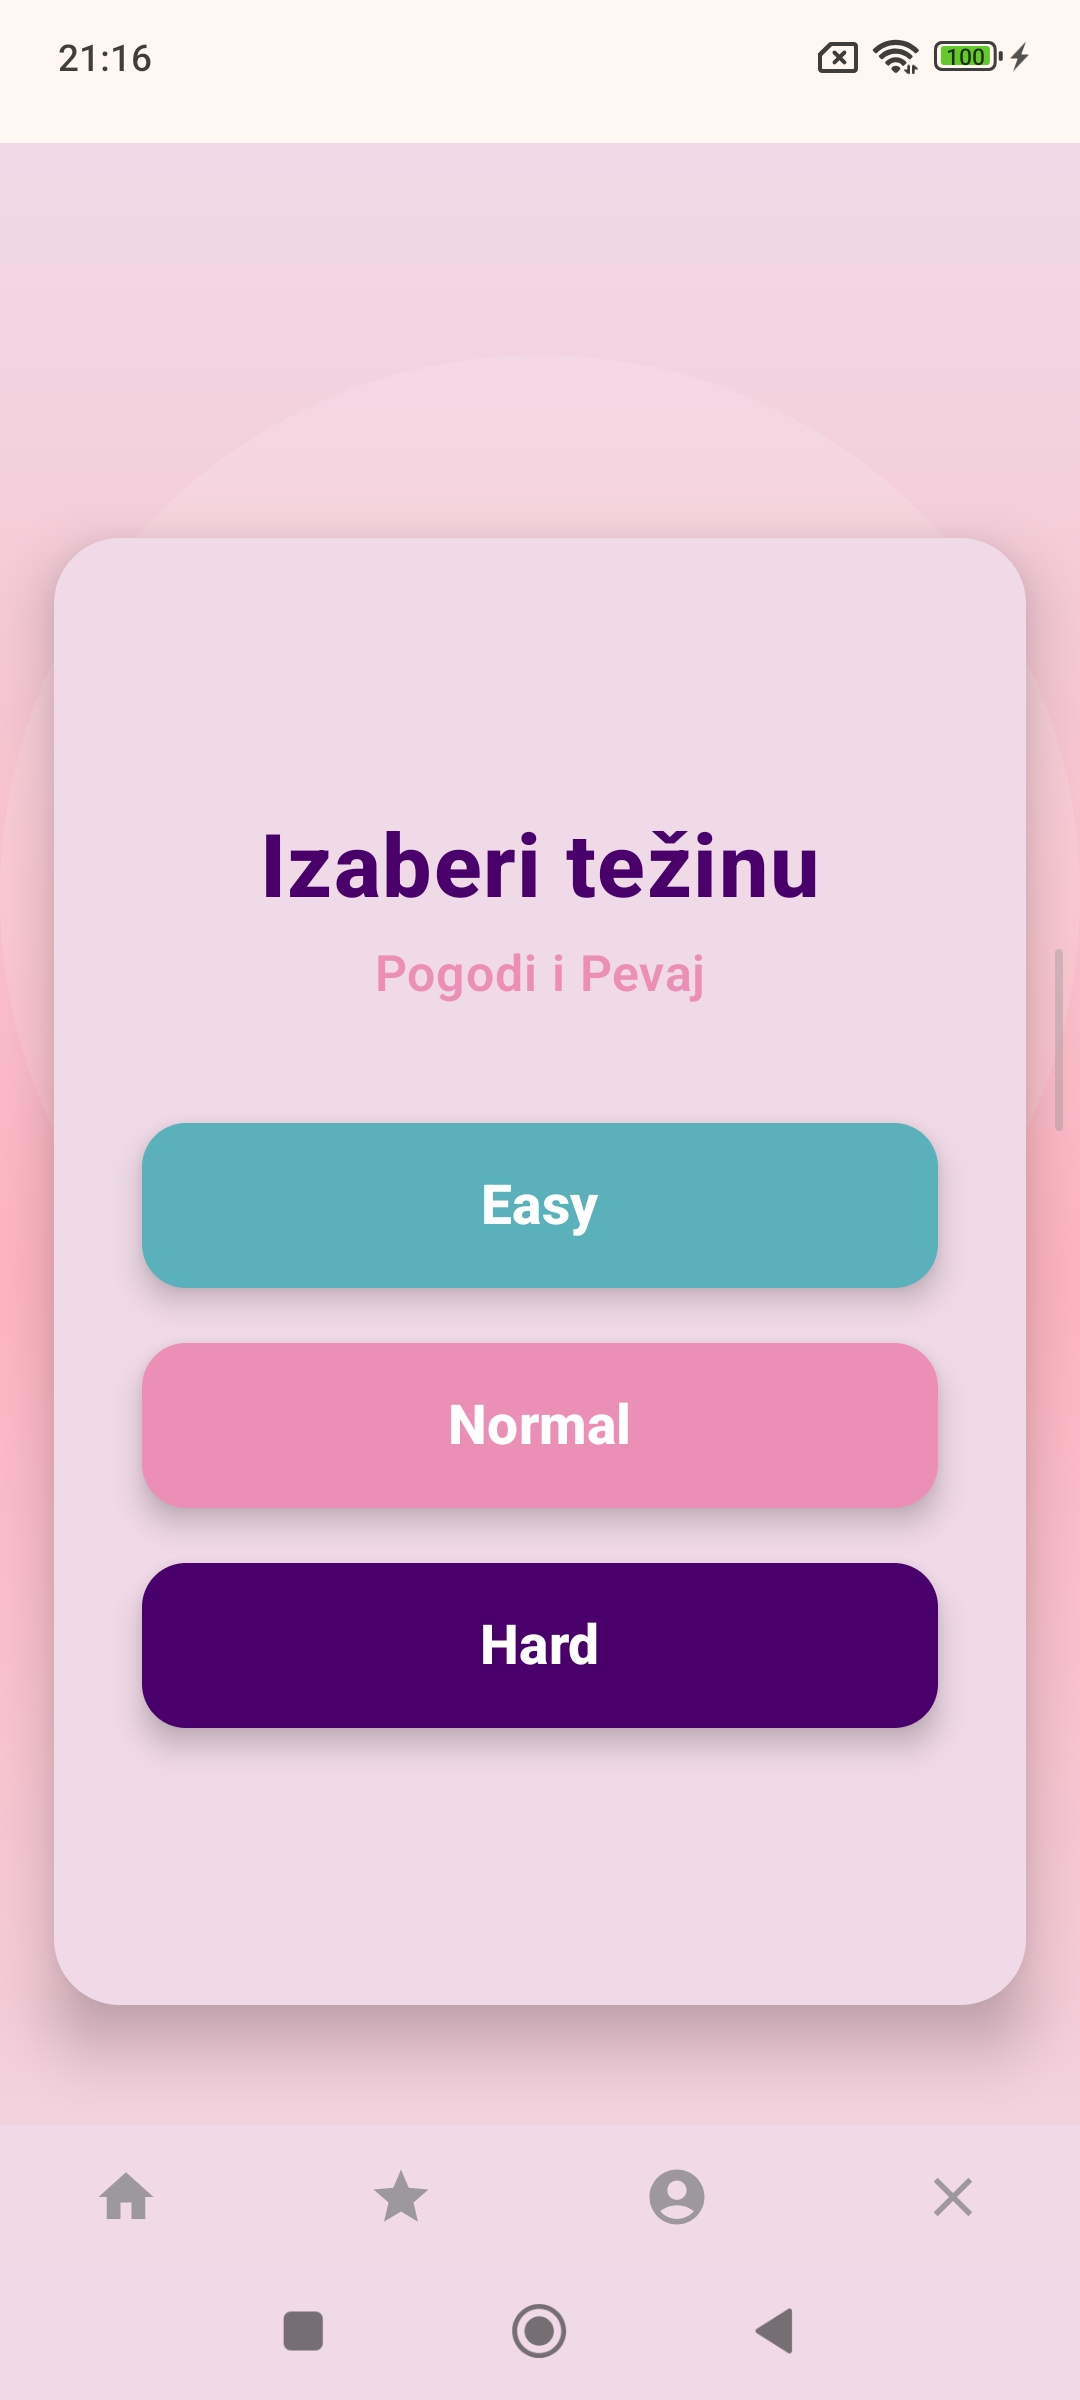
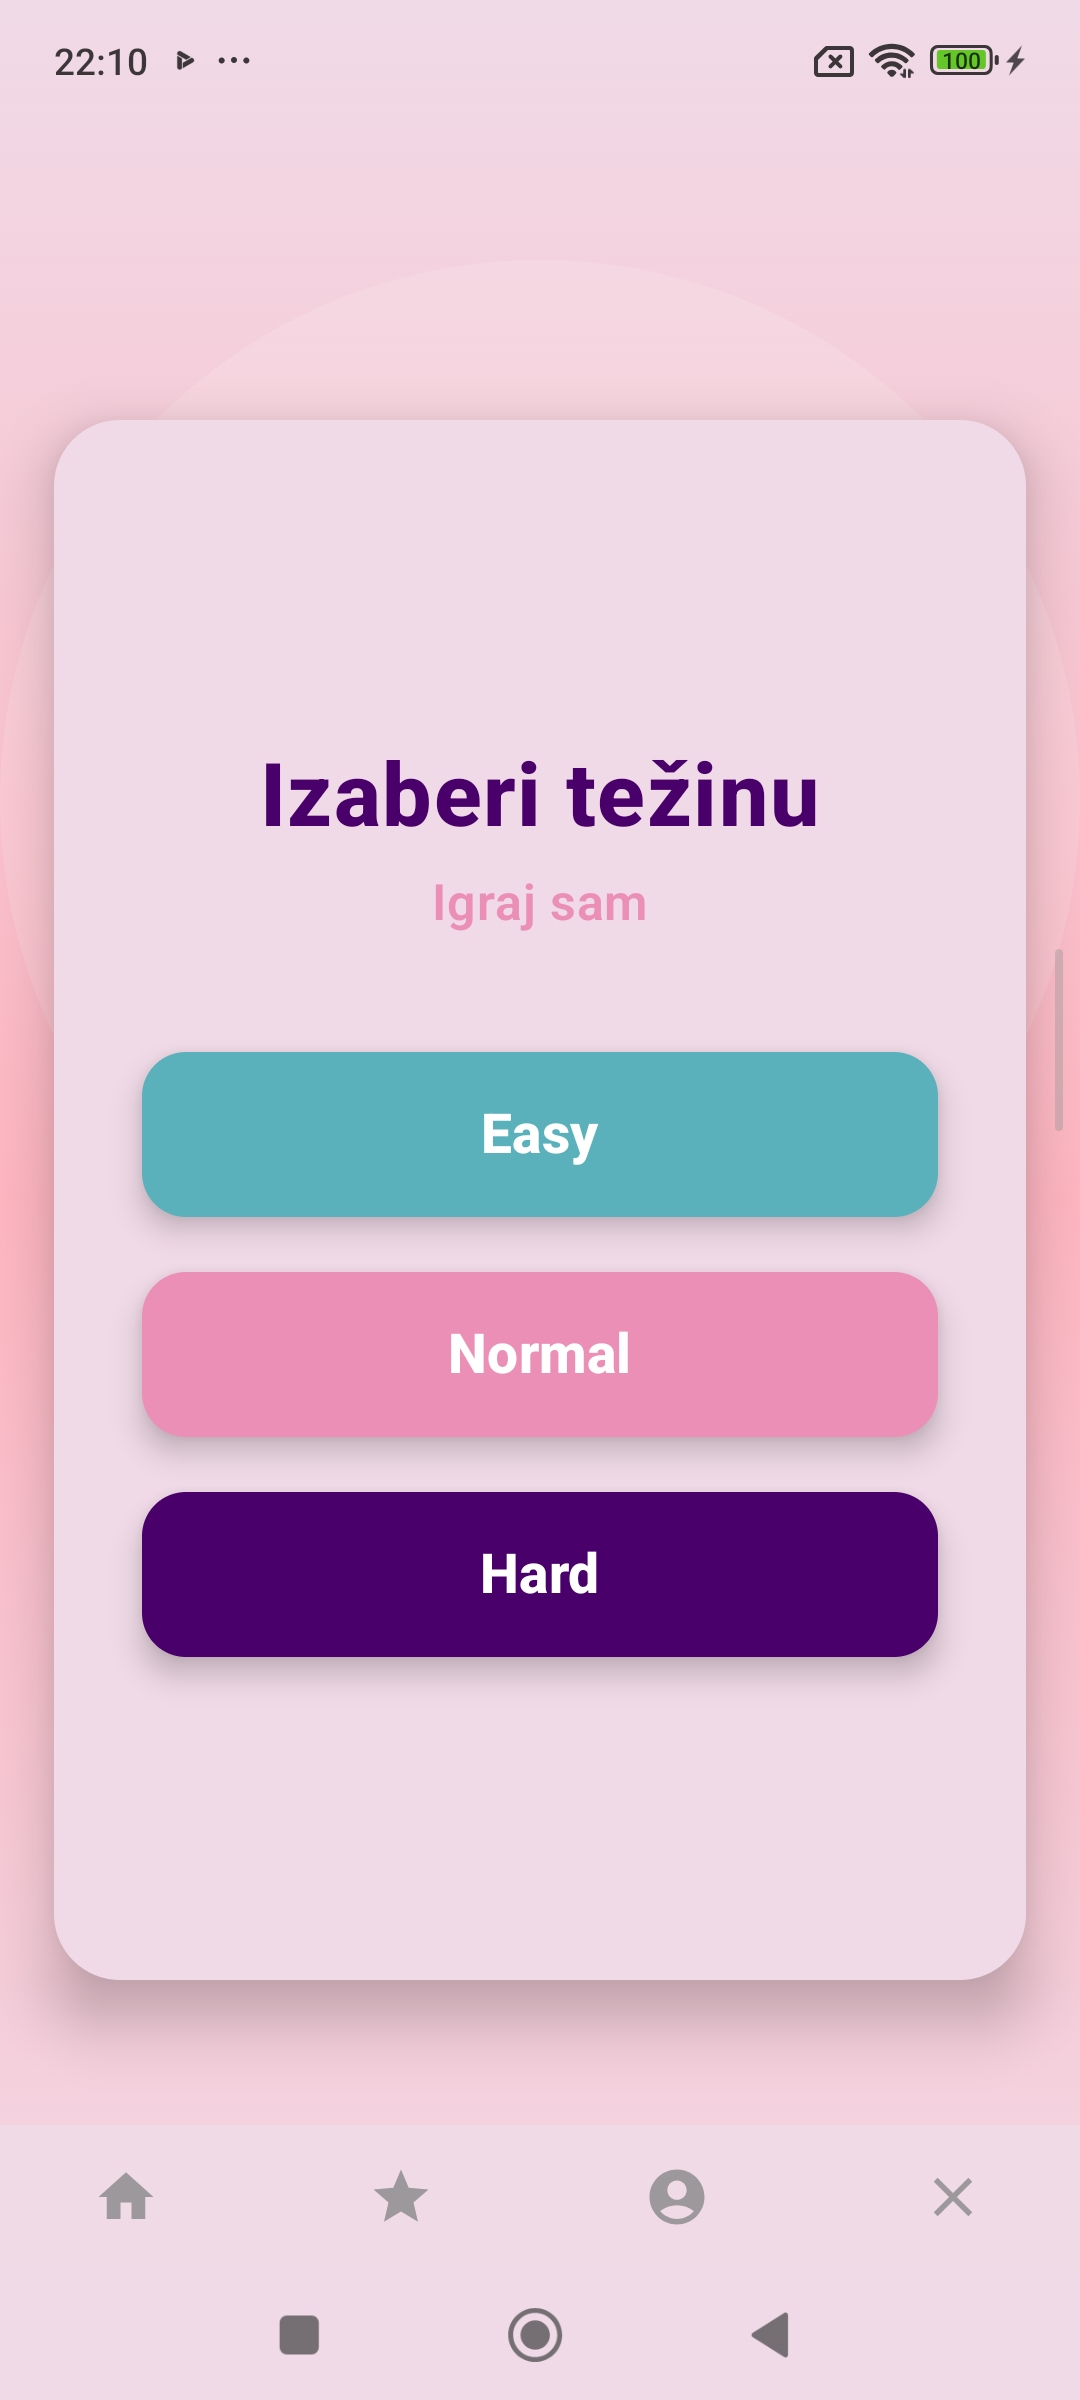
Merge Challenge, Solo, and Guess&Sing level screens into a single reusable component.

diff --git a/BlankSpace/app/src/main/java/com/example/blankspace/screens/igra_sam/Nivo_igra_sam.kt b/BlankSpace/app/src/main/java/com/example/blankspace/screens/igra_sam/Nivo_igra_sam.kt
@@ -1,21 +1,13 @@
 package com.example.blankspace.screens.igra_sam
 
-import androidx.compose.foundation.layout.Arrangement
 import androidx.compose.foundation.layout.Box
-import androidx.compose.foundation.layout.Column
 import androidx.compose.foundation.layout.PaddingValues
-import androidx.compose.foundation.layout.Spacer
-import androidx.compose.foundation.layout.fillMaxHeight
 import androidx.compose.foundation.layout.fillMaxSize
 import androidx.compose.foundation.layout.fillMaxWidth
 import androidx.compose.foundation.layout.height
-import androidx.compose.foundation.layout.padding
 import androidx.compose.foundation.shape.RoundedCornerShape
-import androidx.compose.foundation.shape.ZeroCornerSize
 import androidx.compose.material3.Button
 import androidx.compose.material3.ButtonDefaults
-import androidx.compose.material3.MaterialTheme
-import androidx.compose.material3.Surface
 import androidx.compose.material3.Text
 import androidx.compose.runtime.Composable
 import androidx.compose.runtime.LaunchedEffect
@@ -27,70 +19,22 @@ import androidx.compose.ui.Alignment
 import androidx.compose.ui.Modifier
 import androidx.compose.ui.draw.shadow
 import androidx.compose.ui.graphics.Color
-import androidx.compose.ui.graphics.graphicsLayer
 import androidx.compose.ui.text.font.FontWeight
 import androidx.compose.ui.unit.dp
 import androidx.compose.ui.unit.sp
-import androidx.navigation.NavController
+import com.example.blankspace.screens.igra_pogodi_i_pevaj.Nivo_mainCardStyled
 import com.example.blankspace.screens.pocetne.cards.BgCard2
-import com.example.blankspace.screens.Destinacije
 import kotlinx.coroutines.delay
 
-private val PrimaryDark = Color(0xFF49006B)
-private val CardContainerColor = Color(0xFFF0DAE7)
-private val AccentPink = Color(0xFFEC8FB7)
-
 @Composable
-fun Nivo_igra_sam(navController: NavController) {
-    Box(
-        modifier = Modifier
-            .fillMaxSize()
-            .padding(top = 30.dp)
-    ) {
+fun Nivo_igra_sam(onNavigateToGenre: (String) -> Unit) {
+    Box(modifier = Modifier.fillMaxSize()) {
         BgCard2()
-
-        Surface(
-            color = CardContainerColor,
-            modifier = Modifier
-                .align(Alignment.Center)
-                .fillMaxWidth()
-                .padding(horizontal = 20.dp)
-                .fillMaxHeight(0.55f)
-                .shadow(16.dp, RoundedCornerShape(28.dp)),
-            shape = RoundedCornerShape(28.dp)
-        ) {
-            Column(
-                modifier = Modifier
-                    .fillMaxSize()
-                    .padding(28.dp),
-                horizontalAlignment = Alignment.CenterHorizontally,
-                verticalArrangement = Arrangement.SpaceAround
-            ) {
-                Text(
-                    text = "Izaberite težinu",
-                    color = PrimaryDark,
-                    fontSize = 26.sp,
-                    fontWeight = FontWeight.ExtraBold,
-                    modifier = Modifier.padding(top = 8.dp)
-                )
-
-                Column(
-                    verticalArrangement = Arrangement.spacedBy(18.dp),
-                    horizontalAlignment = Alignment.CenterHorizontally,
-                    modifier = Modifier.fillMaxWidth()
-                ) {
-                    LevelButton(text = "Easy", color = Color(0xFF5AB1BB)) {
-                        navController.navigate(Destinacije.Zanr_igra_sam.ruta + "/easy")
-                    }
-                    LevelButton(text = "Normal", color = AccentPink) {
-                        navController.navigate(Destinacije.Zanr_igra_sam.ruta + "/normal")
-                    }
-                    LevelButton(text = "Hard", color = PrimaryDark) {
-                        navController.navigate(Destinacije.Zanr_igra_sam.ruta + "/hard")
-                    }
-                }
-            }
-        }
+        Nivo_mainCardStyled(
+            onDifficultySelected = onNavigateToGenre,
+            modifier = Modifier.align(Alignment.Center),
+            text="Igraj sam"
+        )
     }
 }
 
@@ -110,9 +54,7 @@ fun LevelButton(text: String, color: Color, onClick: () -> Unit) {
         ),
         shape = RoundedCornerShape(16.dp),
         contentPadding = PaddingValues(horizontal = 20.dp, vertical = 8.dp),
-        modifier = Modifier
-            .fillMaxWidth()
-            .height(60.dp)
+        modifier = Modifier.fillMaxWidth().height(60.dp)
             .shadow(elevation, RoundedCornerShape(16.dp))
     ) {
         Text(

diff --git a/BlankSpace/app/src/main/java/com/example/blankspace/screens/igra_challenge/Nivo_challenge.kt b/BlankSpace/app/src/main/java/com/example/blankspace/screens/igra_challenge/Nivo_challenge.kt
@@ -1,96 +1,21 @@
 package com.example.blankspace.screens.igra_challenge
 
-import androidx.compose.foundation.layout.Arrangement
 import androidx.compose.foundation.layout.Box
-import androidx.compose.foundation.layout.Column
-import androidx.compose.foundation.layout.Spacer
-import androidx.compose.foundation.layout.fillMaxHeight
 import androidx.compose.foundation.layout.fillMaxSize
-import androidx.compose.foundation.layout.fillMaxWidth
-import androidx.compose.foundation.layout.height
-import androidx.compose.foundation.layout.padding
-import androidx.compose.foundation.shape.RoundedCornerShape
-import androidx.compose.material3.Surface
-import androidx.compose.material3.Text
 import androidx.compose.runtime.Composable
 import androidx.compose.ui.Alignment
 import androidx.compose.ui.Modifier
-import androidx.compose.ui.draw.shadow
-import androidx.compose.ui.graphics.Color
-import androidx.compose.ui.text.font.FontWeight
-import androidx.compose.ui.unit.dp
-import androidx.compose.ui.unit.sp
-import androidx.navigation.NavController
 import com.example.blankspace.screens.pocetne.cards.BgCard2
-import com.example.blankspace.screens.Destinacije
-import com.example.blankspace.screens.igra_sam.LevelButton
-
-private val CardContainerColor = Color(0xFFF0DAE7)
-private val PrimaryDark = Color(0xFF49006B)
-private val AccentPink = Color(0xFFEC8FB7)
+import com.example.blankspace.screens.igra_pogodi_i_pevaj.Nivo_mainCardStyled
 
 @Composable
-fun Nivo_challenge(navController: NavController){
-    Box(modifier = Modifier.fillMaxSize().padding(top=52.dp)) {
+fun Nivo_challenge(onNavigateToGenre: (String) -> Unit){
+    Box(modifier = Modifier.fillMaxSize()) {
         BgCard2()
-        Nivo_challenge_mainCard(navController, modifier = Modifier.align(Alignment.Center))
-    }
-}
-
-@Composable
-fun Nivo_challenge_mainCard(navController: NavController, modifier: Modifier = Modifier) {
-    Surface(
-        color = CardContainerColor,
-        modifier = modifier
-            .fillMaxWidth(0.9f)
-            .fillMaxHeight(0.65f)
-            .shadow(16.dp, RoundedCornerShape(24.dp)),
-        shape = RoundedCornerShape(24.dp)
-    ) {
-        Column(
-            modifier = Modifier
-                .fillMaxSize()
-                .padding(32.dp),
-            horizontalAlignment = Alignment.CenterHorizontally,
-            verticalArrangement = Arrangement.Center
-        ) {
-            NivoIgreHeaderStyled()
-            Spacer(modifier = Modifier.height(42.dp))
-            NivoChallengeButtonsStyled(navController)
-        }
-    }
-}
-
-@Composable
-fun NivoIgreHeaderStyled() {
-    Column(horizontalAlignment = Alignment.CenterHorizontally) {
-        Text(
-            text = "Izaberite težinu",
-            fontSize = 32.sp,
-            fontWeight = FontWeight.ExtraBold,
-            color = PrimaryDark
+        Nivo_mainCardStyled(
+            onDifficultySelected = onNavigateToGenre,
+            modifier = Modifier.align(Alignment.Center),
+            text="Challenge mode"
         )
-        Spacer(modifier = Modifier.height(8.dp))
-        Text(
-            text = "Challenge mode",
-            fontSize = 18.sp,
-            fontWeight = FontWeight.SemiBold,
-            color = AccentPink
-        )
-    }
-}
-
-@Composable
-fun NivoChallengeButtonsStyled(navController: NavController) {
-    LevelButton(text = "Easy", color = Color(0xFF5AB1BB)) {
-        navController.navigate(Destinacije.Zanr_challenge.ruta + "/easy")
-    }
-    Spacer(modifier = Modifier.height(20.dp))
-    LevelButton(text = "Normal", color = AccentPink) {
-        navController.navigate(Destinacije.Zanr_challenge.ruta + "/normal")
-    }
-    Spacer(modifier = Modifier.height(20.dp))
-    LevelButton(text = "Hard", color =PrimaryDark) {
-        navController.navigate(Destinacije.Zanr_challenge.ruta + "/hard")
     }
 }

diff --git a/BlankSpace/app/src/main/java/com/example/blankspace/screens/igra_pogodi_i_pevaj/Nivo_pogodiPevaj.kt b/BlankSpace/app/src/main/java/com/example/blankspace/screens/igra_pogodi_i_pevaj/Nivo_pogodiPevaj.kt
@@ -20,25 +20,24 @@ import androidx.compose.ui.graphics.Color
 import androidx.compose.ui.text.font.FontWeight
 import androidx.compose.ui.unit.dp
 import androidx.compose.ui.unit.sp
-import androidx.navigation.NavController
 import com.example.blankspace.screens.pocetne.cards.BgCard2
-import com.example.blankspace.screens.Destinacije
 import com.example.blankspace.screens.igra_sam.LevelButton
-
-private val PrimaryDark = Color(0xFF49006B)
-private val AccentPink = Color(0xFFEC8FB7)
-private val CardContainerColor = Color(0xFFF0DAE7)
+import com.example.blankspace.ui.theme.*
 
 @Composable
-fun Nivo_pogodiPevaj(navController: NavController){
-    Box(modifier = Modifier.fillMaxSize().padding(top=52.dp)) {
+fun Nivo_pogodiPevaj(onNavigateToGenre: (String) -> Unit){
+    Box(modifier = Modifier.fillMaxSize()) {
         BgCard2()
-        Nivo_pogodiPevaj_mainCardStyled(navController, modifier = Modifier.align(Alignment.Center))
+        Nivo_mainCardStyled(
+            onDifficultySelected = onNavigateToGenre,
+            modifier = Modifier.align(Alignment.Center),
+            text="Pogodi i Pevaj"
+        )
     }
 }
 
 @Composable
-fun Nivo_pogodiPevaj_mainCardStyled(navController: NavController, modifier: Modifier = Modifier) {
+fun Nivo_mainCardStyled(onDifficultySelected: (String) -> Unit, modifier: Modifier = Modifier, text:String) {
     Surface(
         color = CardContainerColor,
         modifier = modifier
@@ -54,15 +53,15 @@ fun Nivo_pogodiPevaj_mainCardStyled(navController: NavController, modifier: Modi
             horizontalAlignment = Alignment.CenterHorizontally,
             verticalArrangement = Arrangement.Center
         ) {
-            NivoIgreHeaderPogodiPevaj()
+            NivoIgreHeader(text)
             Spacer(modifier = Modifier.height(42.dp))
-            NivoPogodiPevajButtonsStyled(navController)
+            NivoButtonsStyled(onDifficultySelected = onDifficultySelected)
         }
     }
 }
 
 @Composable
-fun NivoIgreHeaderPogodiPevaj() {
+fun NivoIgreHeader(text:String) {
     Column(horizontalAlignment = Alignment.CenterHorizontally) {
         Text(
             text = "Izaberi težinu",
@@ -72,7 +71,7 @@ fun NivoIgreHeaderPogodiPevaj() {
         )
         Spacer(modifier = Modifier.height(8.dp))
         Text(
-            text = "Pogodi i Pevaj",
+            text = text,
             fontSize = 18.sp,
             fontWeight = FontWeight.SemiBold,
             color = AccentPink
@@ -81,16 +80,10 @@ fun NivoIgreHeaderPogodiPevaj() {
 }
 
 @Composable
-fun NivoPogodiPevajButtonsStyled(navController: NavController) {
-    LevelButton(text = "Easy", color = Color(0xFF5AB1BB)) {
-        navController.navigate(Destinacije.Zanr_pogodiPevaj.ruta + "/easy")
-    }
+fun NivoButtonsStyled(onDifficultySelected: (String) -> Unit) {
+    LevelButton(text = "Easy", color = Color(0xFF5AB1BB)) { onDifficultySelected("easy")}
     Spacer(modifier = Modifier.height(20.dp))
-    LevelButton(text = "Normal", color = AccentPink) {
-        navController.navigate(Destinacije.Zanr_pogodiPevaj.ruta + "/normal")
-    }
+    LevelButton(text = "Normal", color = AccentPink) { onDifficultySelected("normal") }
     Spacer(modifier = Modifier.height(20.dp))
-    LevelButton(text = "Hard", color = PrimaryDark) {
-        navController.navigate(Destinacije.Zanr_pogodiPevaj.ruta + "/hard")
-    }
+    LevelButton(text = "Hard", color = PrimaryDark) { onDifficultySelected("hard") }
 }

diff --git a/BlankSpace/app/src/main/java/com/example/blankspace/MainActivity.kt b/BlankSpace/app/src/main/java/com/example/blankspace/MainActivity.kt
@@ -242,16 +242,26 @@ fun BlankSpaceApp(){
                 PravilaIgre(onClick = { navController.navigate(Destinacije.Login.ruta) })
             }
             composable(route = Destinacije.Nivo_igra_sam.ruta) {
-                Nivo_igra_sam(navController)
+                Nivo_igra_sam(
+                    onNavigateToGenre = { tezina ->
+                        navController.navigate("${Destinacije.Zanr_igra_sam.ruta}/$tezina")
+                    }
+                )
             }
             composable(route = Destinacije.Nivo_igra_offline.ruta) {
                 Nivo_igra_offline(navController)
             }
             composable(route = Destinacije.Nivo_pogodiPevaj.ruta) {
-                Nivo_pogodiPevaj(navController)
+                Nivo_pogodiPevaj(
+                    onNavigateToGenre = { tezina ->
+                        navController.navigate("${Destinacije.Zanr_pogodiPevaj.ruta}/$tezina")
+                    }
+                )
             }
             composable(route = Destinacije.Nivo_challenge.ruta) {
-                Nivo_challenge(navController)
+                Nivo_challenge(onNavigateToGenre = { tezina ->
+                    navController.navigate("${Destinacije.Zanr_challenge.ruta}/$tezina")
+                })
             }
             composable(route = Destinacije.Sifra_sobe_duel.ruta) {
                 Sifra_sobe_duel(navController,viewModelDuel,viewModelLogin)

diff --git a/BlankSpace/app/src/main/java/com/example/blankspace/screens/igra_sam/Zanr_igra_sam.kt b/BlankSpace/app/src/main/java/com/example/blankspace/screens/igra_sam/Zanr_igra_sam.kt
@@ -42,10 +42,8 @@ import com.example.blankspace.screens.Destinacije
 import com.example.blankspace.viewModels.IgraSamViewModel
 import com.example.blankspace.viewModels.UiStateZ
 import com.example.blankspace.viewModels.ZanrViewModel
+import com.example.blankspace.ui.theme.*
 
-private val PrimaryDark = Color(0xFF49006B)
-private val AccentPink = Color(0xFFEC8FB7)
-private val CardContainerColor = Color(0xFFF0DAE7)
 private val LightBackground = Color(0xFFF7F7F7)
 
 @Composable

diff --git a/BlankSpace/app/src/main/java/com/example/blankspace/ui/theme/Color.kt b/BlankSpace/app/src/main/java/com/example/blankspace/ui/theme/Color.kt
@@ -16,7 +16,6 @@ val PrimaryDark = Color(0xFF49006B)
 val CardContainerColor = Color(0xFFF0DAE7)
 val AccentPink = Color(0xFFEC8FB7)
 val LightBackground = Color.White
-
 val RULES_CARD_BG = Color.White
 val RULES_ACCENT = Color(0xFFEC8FB7)
 val RULES_TEXT_DARK = Color(0xFF49006B)

diff --git a/README.md b/README.md
@@ -117,8 +117,8 @@ The project includes a comprehensive unit testing suite for the ViewModel layer 
   <img src="screenshots/pitanje_lozinka.png" width="270" />
   <img src="screenshots/promena_lozinka.jpg" width="270" />
   <img src="screenshots/gost.png" width="270" />
-  <img src="screenshots/home.png" width="270" />
-  <img src="screenshots/nivo.png" width="270" />
+  <img src="screenshots/home.jpg" width="270" />
+  <img src="screenshots/nivo.jpg" width="270" />
   <img src="screenshots/zanr.png" width="270" />
   <img src="screenshots/game.png" width="270" />
   <img src="screenshots/kraj_igre.png" width="270" />
@@ -130,9 +130,9 @@ The project includes a comprehensive unit testing suite for the ViewModel layer 
   <img src="screenshots/pretraga_i_predlaganje.png" width="270" />
   <img src="screenshots/profile.png" width="270" />
   <img src="screenshots/notifikacija.png" width="270" />
-  <img src="screenshots/rang.png" width="270" />
-  <img src="screenshots/stats.png" width="270" />
-  <img src="screenshots/stats2.png" width="270" />
-  <img src="screenshots/stats3.png" width="270" />
+  <img src="screenshots/rang.jpg" width="270" />
+  <img src="screenshots/stats.jpg" width="270" />
+  <img src="screenshots/stats2.jpg" width="270" />
+  <img src="screenshots/stats3.jpg" width="270" />
   
 </p>
